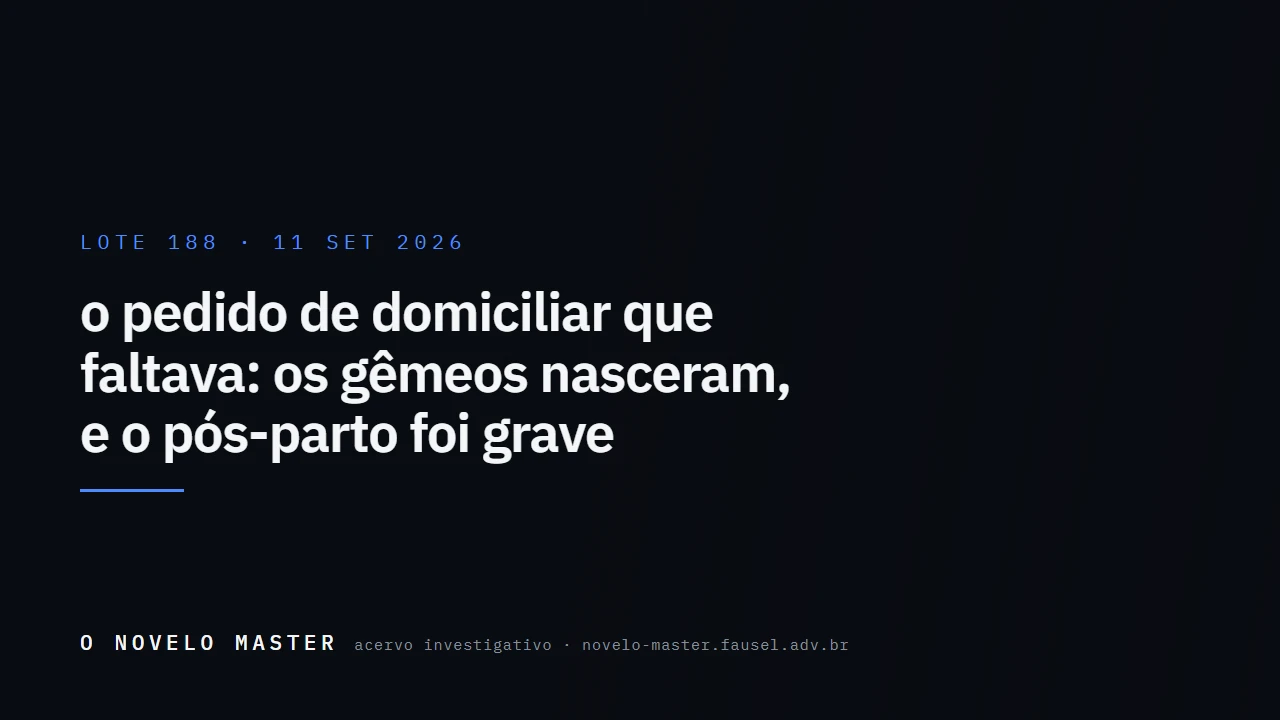
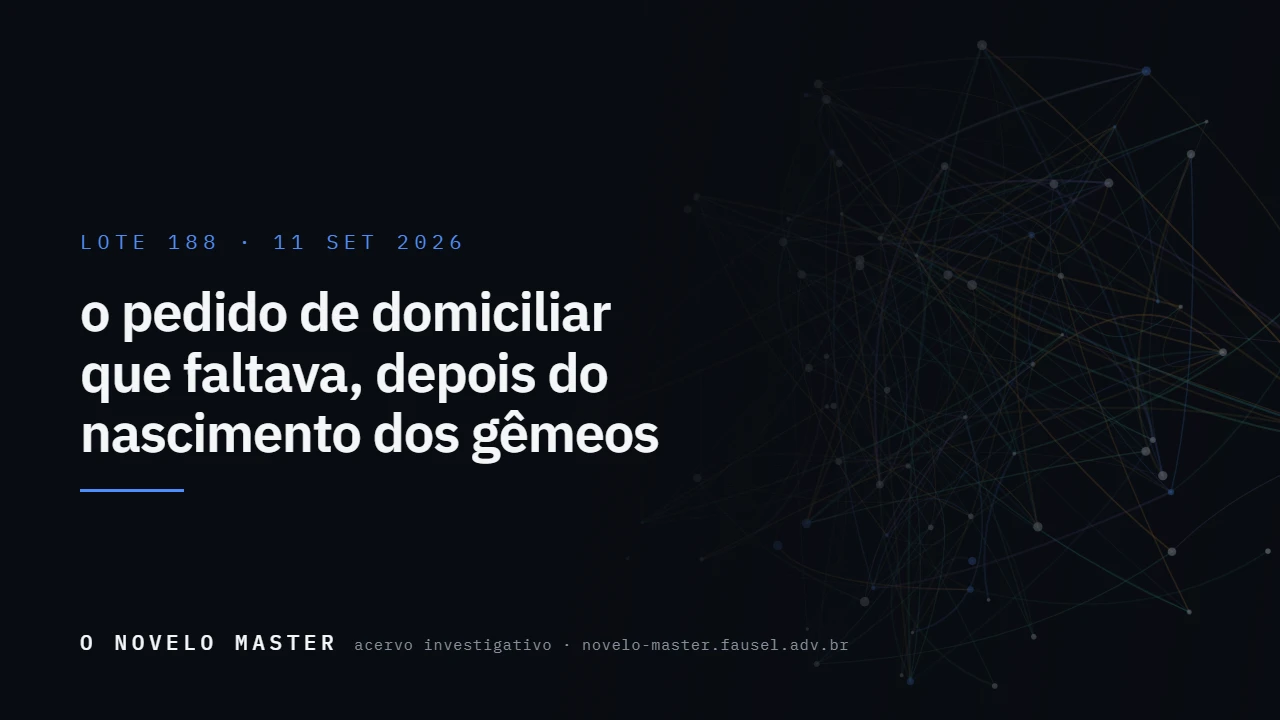
data: saneamento de dados pessoais (auditoria rotineira)
Retira dados vedados pela seção 6 da política editorial em 31 registros, sem
alterar fato: número de unidade de imóvel, dado de saúde e de menores, e-mails
individuais, logradouro residencial e data de nascimento sem pertinência. O
título e o card do lote 188 foram refeitos. Revisão
rev-2026-09-13-saneamento-dados-pessoais.

diff --git a/CHANGELOG.md b/CHANGELOG.md
@@ -2,6 +2,15 @@
 
 ## Unreleased
 
+- **Saneamento de dados pessoais (auditoria rotineira).** Varredura de todo o acervo publicado contra
+  a seção 6 da política editorial. Não havia CPF, RG, telefone, placa nem dado bancário; havia cinco
+  tipos de dado vedado em 31 registros, todos retirados sem alterar fato nenhum: número de unidade de
+  imóvel investigado, diagnóstico de saúde e dados de recém-nascidos citados em pedido de prisão
+  domiciliar (o título e o card do lote correspondente foram refeitos), e-mails individuais transcritos
+  de despachos (fica o domínio), logradouro de apartamento usado como sede de empresa e uma data de
+  nascimento sem pertinência. O conteúdo removido não é reproduzido aqui; ver a revisão
+  `rev-2026-09-13-saneamento-dados-pessoais`.
+
 - **Consistência das ligações do grafo, e três regras novas no lint.** Uma análise conferiu, ligação
   por ligação, se o registro e as fontes citadas nomeiam as duas pontas. Nenhuma ligava as pessoas
   erradas, mas quatro tipos de problema passavam por um lint limpo, porque cada registro, sozinho,
